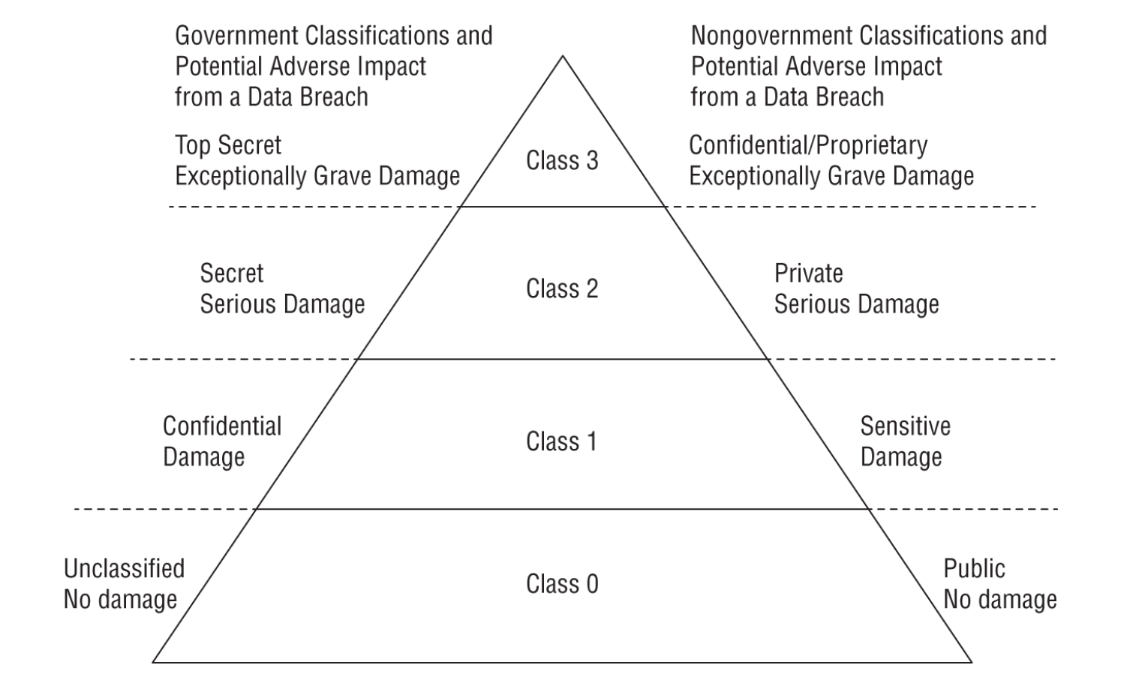
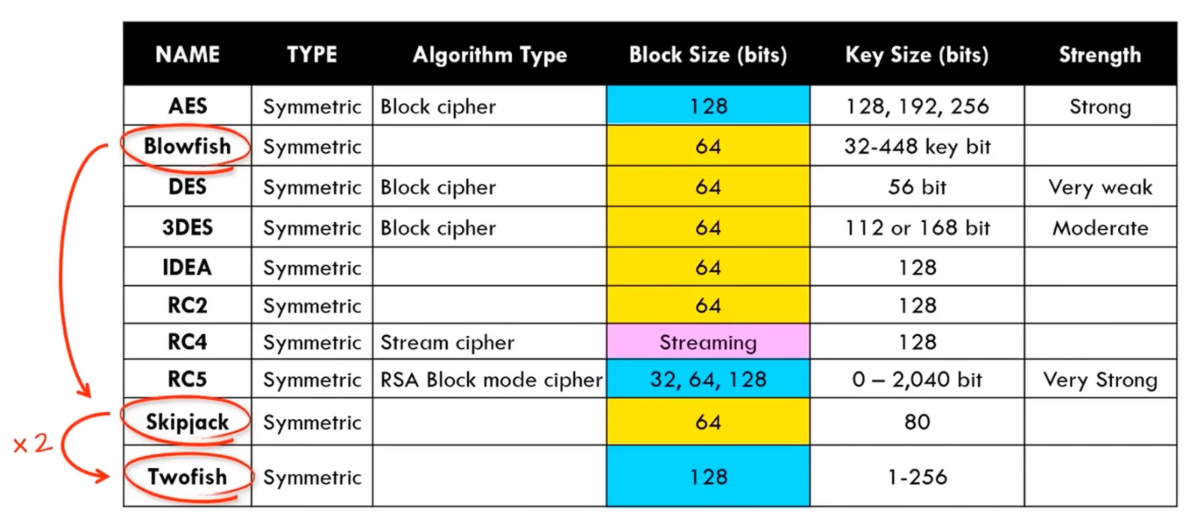
GITBOOK-38: No subject

diff --git a/cissp-study-notes/domain-3-security-architecture-and-engineering.md b/cissp-study-notes/domain-3-security-architecture-and-engineering.md
@@ -4,49 +4,49 @@ icon: lock-keyhole
 
 # Domain 3: Security Architecture and Engineering
 
-Security Design Principles:\
-\- Threat modeling\
-\- Least privilege\
-\- Defense in Depth\
-\- Secure defaults\
-\- Fail securely\
-\- Seperation of duties\
-\- Keep it simple and small\
-\- Zero trust or trust but verify\
-\- Privacy by Design\
-\- Share responsibility\
-\- Secure acces service edge
+## Security Design Principles
 
+* Threat modeling
+* Least privilege
+* Defense in depth&#x20;
+* Fail securely
+* Separation of duties
+* Keep it simple and small
+* Zero trust or trust but verify
+* Privacy by Design
+* Share responsibility
+  * cloud services
+* Secure access service edge
 
+### Principles for Zero Trust
 
-Principles for Zero Trust
-
-Know your architecture (users, devices and services)\
+Know your architecture of users, devices and services\
 Know your identities of users, services and devices\
 Know the health of your users, devices and services\
 Use policies to authorize requests\
 Authenticate everywhere\
 Focus your monitoring\
 Don't trust any network, incl. your own\
-Choose services designed for zero trust
+Choose services designed for zero trust\
+treats user identity as the control plane\
+assumes compromise / breach in verifying every request\
 
 
-
-Principle by design
+### Principle by design
 
 privacy should be embedded into every standard, protocol, and process that touches people
 
 * proactive
 * privacy as the default
-* embed privacy into desgin
-* full fuctionality
+* embed privacy into design
+* full functionality
 * end-to-end security
 * Visiblity and Transparency
 * Respect for User privacy
 
 
 
-Cyber kill chain
+## Cyber kill chain
 
 <figure><img src=".gitbook/assets/Cyber-Kill-chain-Diagram.webp" alt=""><figcaption></figcaption></figure>
 
@@ -54,7 +54,9 @@ Cyber kill chain
 
 Three of the most popular security architectures:
 
-Zachman, Sherwood Applied Business Security Architecture (SABSA), The Open Group Architecture Framework (TOGAF)
+* Zachman
+* Sherwood Applied Business Security Architecture (SABSA)
+* The Open Group Architecture Framework (TOGAF)
 
 
 
@@ -62,7 +64,7 @@ Zachman, Sherwood Applied Business Security Architecture (SABSA), The Open Group
 
 "Rules to be implemented to achieve security"
 
-They are a way to formalize security policy.
+They are a way to <mark style="color:$primary;">formalize</mark> security policy.
 
 typical implemented by enforcing integrity, confidentiality or other controls.
 
@@ -77,9 +79,45 @@ Three properties:
 
 
 
+State machine model
+
+* describe a system that is always secure, no matter what state it is in
+* based on computer science: finite state machine (FSM)
+* state: snapshot of a system at a specific moment in time. All state transistions must be evaluated
+* if each possible state transition results in another secure state, system can be called secure state machine
+
+Information flow model
+
+* focuses on controlling the flow of information
+* based on state machine model
+* Biba and Bell-LaPaDula
+
+
+
+non-interference model
+
+* loosely based on the information flow model
+* concernd how actions of a subject or a higher security level affect the system statet
+* subject a (high) should not affect or interfere with the actions of subject B (low)
+* form of protection against malicious programs such as backdoors and rootkits
+
+
+
+| Model                      | What it is (simple)                                                                                                          | What it enforces                                                                     | Quick example                                                                                                        |
+| -------------------------- | ---------------------------------------------------------------------------------------------------------------------------- | ------------------------------------------------------------------------------------ | -------------------------------------------------------------------------------------------------------------------- |
+| **State Machine Model**    | Treats a system as **states** and **transitions**. If you start secure and only do allowed transitions, you **stay secure**. | Every change must keep the system in a **secure state**.                             | Bell-LaPadula/Biba are built as state-machine models: each operation is checked so it can’t break policy.            |
+| **Information Flow Model** | Focuses on **where data is allowed to flow** (who/what can send or receive).                                                 | **Allow only permitted flows**, block illegal ones to prevent leakage/contamination. | “No read up / no write down” (Bell-LaPadula) and “No read down / no write up” (Biba) control info movement.          |
+| **Non-Interference Model** | Strong form of isolation: **high-level actions must not change anything a low-level user can observe**.                      | Prevents **signals/covert channels** from high → low.                                | In a multi-level system, admin (High) activity can’t cause timing/log/output changes visible to regular users (Low). |
+
+
+
 **lattice-based mode**l is like a ladder, layers going up and down. Requires layers of security.
 
 **rule-based model:** specific rules dictates how security operates
+
+
+
+<figure><img src=".gitbook/assets/image (2).png" alt=""><figcaption></figcaption></figure>
 
 Biba, Star Model, Bell-LaPadula, Clark-Wilson, Brewer-Nash (Chinese Wall Model)
 
@@ -91,22 +129,25 @@ Biba, Star Model, Bell-LaPadula, Clark-Wilson, Brewer-Nash (Chinese Wall Model)
 |                                                                                        | Graham-Denning             |
 |                                                                                        | Harrison-Ruzzo-Ullman      |
 
-Bell-LaPadula
+### Bell-LaPadula
 
 * state machine enforces confidentiality
 * mandatory access control
   * to enforce DoD multilevel security policy (Government!!)
 * simple security property
-  * no read up
+  * simple security property
+    * no read up
+  * start \* security property
+    * no write down
 
-| Aspect                   | Bell-LaPadula                                                                                                                           | Biba                                                                                                                                |
-| ------------------------ | --------------------------------------------------------------------------------------------------------------------------------------- | ----------------------------------------------------------------------------------------------------------------------------------- |
-| _Primary Goal_           | **Confidentiality**—keep secrets from leaking                                                                                           | <p><strong>Integrity</strong>—keep trusted data from being corrupted.<br>prevents unauthorized subjects from making any changes</p> |
-| _Key Rule Mnemonics_     | **No-Read-Up / No-Write-Down**(“You can’t look at material above your clearance, and you can’t send classified data to a lower level.”) | **No-Write-Up / No-Read-Down**(“You can’t contaminate higher-integrity data, and you shouldn’t trust lower-quality data.”)          |
-| _Typical Labels_         | Unclassified → Confidential → Secret → Top Secret                                                                                       | Untrusted → User → Operator → System                                                                                                |
-| _Where You’ll See It_    | Military/Intel MLS networks, SELinux MLS, cross-domain guards                                                                           | Safety-critical systems, financial transaction ledgers, industrial control, medical records                                         |
-| _Ignored CIA Components_ | Integrity & Availability                                                                                                                | Confidentiality & Availability                                                                                                      |
-| Typical Scenario         | A Secret-cleared analyst saves her finished report as **Top Secret**.                                                                   | Operating-system kernel (high integrity) writes log entries to a user-readable “/var/log” file (low integrity).                     |
+| Aspect                   | Bell-LaPadula                                                                                                                                                                | Biba                                                                                                                                                                     |
+| ------------------------ | ---------------------------------------------------------------------------------------------------------------------------------------------------------------------------- | ------------------------------------------------------------------------------------------------------------------------------------------------------------------------ |
+| _Primary Goal_           | <mark style="color:$primary;">**Confidentiality**</mark>—keep secrets from leaking                                                                                           | <p><mark style="color:$primary;"><strong>Integrity</strong></mark>—keep trusted data from being corrupted.<br>prevents unauthorized subjects from making any changes</p> |
+| _Key Rule Mnemonics_     | <mark style="color:$primary;">**No-Read-Up / No-Write-Down**</mark>(“You can’t look at material above your clearance, and you can’t send classified data to a lower level.”) | <mark style="color:$primary;">**No-Write-Up / No-Read-Down**</mark>(“You can’t contaminate higher-integrity data, and you shouldn’t trust lower-quality data.”)          |
+| _Typical Labels_         | Unclassified → Confidential → Secret → Top Secret                                                                                                                            | Untrusted → User → Operator → System                                                                                                                                     |
+| _Where You’ll See It_    | Military/Intel MLS networks, SELinux MLS, cross-domain guards                                                                                                                | Safety-critical systems, financial transaction ledgers, industrial control, medical records                                                                              |
+| _Ignored CIA Components_ | Integrity & Availability                                                                                                                                                     | Confidentiality & Availability                                                                                                                                           |
+| Typical Scenario         | A Secret-cleared analyst saves her finished report as **Top Secret**.                                                                                                        | Operating-system kernel (high integrity) writes log entries to a user-readable “/var/log” file (low integrity).                                                          |
 
 **Lipner** is an implementation (not model) that combines the best features of Bell-LaPadula and Biba
 
@@ -121,7 +162,7 @@ Covert channels
 
 Focus on Integrity / Adds on to Biba model
 
-1. Prevent unauthorized subjects from making anyu changes (=Biba)
+1. Prevent unauthorized subjects from making any changes (=Biba)
 2. Prevent unauthorized subjects from making bad changes
 3. Maintain consistency of the system
 
@@ -130,6 +171,8 @@ Rules of integrity:
 | Well-Formed Transaction                                                                                   | Separation of Duties                                                                  | Access Triple                                                                                                                                        |
 | --------------------------------------------------------------------------------------------------------- | ------------------------------------------------------------------------------------- | ---------------------------------------------------------------------------------------------------------------------------------------------------- |
 | Good, consistent data. Only perform operations in a manner that won't compromise the integrity of ojbects | One person shouldn't be allowed to poerform all tasks related to a critical function. | <p>Subject > Program > Object<br>Subject cannot directly access an object. Database access must go through a program that enforces access rules.</p> |
+
+<figure><img src=".gitbook/assets/image (3).png" alt=""><figcaption></figcaption></figure>
 
 
 
@@ -140,15 +183,9 @@ primary goal: Preventing conflict of interest.
 
 Example: Banking: Retail Investments and Merger & Acquisitions
 
-
-
 Other rule-based models (no details mentioned):\
 \- Graham-Denning Model\
 \- Harrison-Ruzzo-Ullman model
-
-
-
-
 
 
 
@@ -382,10 +419,18 @@ SPML
 
 
 
-Edge computing:
+### Edge computing
 
 * distributed computing approach that can reduce latency, increase bandwidth availability
 * process is done closer to the source of data
+  * locally, far from the cloud
+* IOT
+* process on the device (motion detection camera)
+
+### Fog computing
+
+* places gateway devices in the field to collect and correlate data centrally at the edge
+* iot gateway aggregates data run anomaly and sends summary to cloud
 
 
 
@@ -434,7 +479,7 @@ rubber hose attack: user of duress or torture
   2. Decrypt it with the stolen KRBTGT key, modify the **PAC** (add Domain-Admins SID, change username, etc.).
   3. Re-encrypt and reuse; because there _was_ an earlier AS-REQ/REP, log timelines line up and traditional “ticket appeared from nowhere” rules fail.
 
-Cryptographie
+## Cryptographie
 
 Goals:
 
@@ -448,23 +493,23 @@ Goals:
 
 
 
-Key clustering: two different keys generate same ciphertext for same plaintext.
+**Key clustering**: two different keys generate same ciphertext for same plaintext. Similar to collision in hashes
 
-Work Factor: estimated amount of time or effort required to break a cryptosystem
+**Work Factor**: estimated amount of time or effort required to break a **cryptosystem**
 
-Confusion: If one bit of the key is changed, about half of the bit in the ciphertext should change (key - ciphertext)
+**Confusion:** If one bit of the key is changed, about half of the bit in the ciphertext should change (key - ciphertext)
 
-Diffusion: If one bit of the plaintext is changed, approx half of the bits in ciphertext should change. (plaintext - ciphertext)
+**Diffusion:** (shannon propert). each plaintext bit's influence is spread over many chiphertext bits
 
-Avalanche: determine security and effectiveness of an algo. Looks at the degree of confusion and diffusion the algo provides. Ideal case: Single bit -> at least 50 percent change in cipher text!
+**Avalanche**: determine security and effectiveness of an algo. Looks at the degree of confusion and diffusion the algo provides. Ideal case: Single bit -> at least 50 percent change in cipher text!
 
-Substitution: Replace characters with different characters
+**Substitution:** Replace characters with different characters (Ceasar cipher)
 
-Diffusion: Rearrange order of characters
+**Transposition:** rearrange the letters of a plaintext message
 
 Rail Fence (ZigZag)&#x20;
 
-Block Cipher Modes:
+### Block Cipher Modes
 
 
 
@@ -488,14 +533,14 @@ Null Cipher: Plaintext ist mixed with a large amount of non-ciphertext. For exam
 
 ### Symmetric encryption
 
+<figure><img src=".gitbook/assets/image.png" alt=""><figcaption></figcaption></figure>
+
 Advantages: Fast, Strong\
 Disadvantages: Key distribution, Scalability, no authentication, integrity or nonrepudation.
 
 total keys for n users: n \* (n-1) / 2
 
 RC4 = Stream cipher, RC5 and RC6 = Block ciphers!
-
-
 
 DES: 56 key length, 64 block length\
 2-DES: 2 \* 56 key length\
@@ -523,12 +568,18 @@ AEAD: Authenticated Encryption with Associated Data
 
 AES-GCM and ChaCha2020-Poly1305 when confidentiality + integrtiy is needed in a single pass. No separate MAC required
 
+### Hash algorithms
 
+<figure><img src=".gitbook/assets/image (1).png" alt=""><figcaption></figcaption></figure>
+
+SHA-1 = obsolete; SHA-2 = today’s default; SHA-3 = different design (sponge) + SHAKE options.
 
 ### Asymmetric Crypto
 
-RSA based on factoring (5 x 3 = 15)\
-Elliptic Curve based on discrete logarithms (DH, ECC) 2^3 = 8
+**RSA** based on factoring (5 x 3 = 15)\
+**Elliptic Curve** based on discrete logarithms (DH, ECC) 2^3 = 8\
+**Diffie-Hellman**\
+**El Gamals:** extension of DH key exchange algorithm. Depends on modular arthmetic.&#x20;
 
 Knapsack algo was cracked and considered unsafe
 
@@ -551,9 +602,14 @@ MIC uses hashes (instead of Parity checks, Checksums or CRC)
 Accidentail changes: Parity, CRC, Checksums\
 Intentional changes: keyed hash, digital signatures
 
+DSS: Digital Signature Standard:
 
+* NIST standards FIPS 186-5 defines how to create and verify digital signtures to ensure integrity, authentication and non-repudations
+* approved algos: RSA, ECDSA and edDSA
+* DSA no longer approved
+* SHA-1, SHA-2 and SHA-3 message digest
 
-PKI:
+PKI
 
 RA: Registration Authority (proofs Identity for new Certifcate requests)
 
@@ -598,9 +654,20 @@ Crypto shedding good variant to verify data is removed from the cloud
 
 
 
+### Quantum computing
 
+**Grover algorithm** shows that a quantum computer speeds up these attacks to effectively halve the **symmmetric** key length. 256-bit key becomes a 128-bit **key.**
 
-### Physical security
+**Shor's algortihm** can easily break all of the commonly based-key algo based on both factoring and the discrete logarithm problem
+
+* RSA is vulnerable
+* Elliptic Curve is vulnerable
+
+**Lattice** based crypto offers some resistance!
+
+Lattice based on shortest vector problem and closest vector problem
+
+## Physical security
 
 | Logical security controls | Physical Security |
 | ------------------------- | ----------------- |
@@ -707,4 +774,27 @@ Fire extinguishers
 | **C**                         | **Energized electrical equipmen**t: panels, motors, servers, wiring runs                                    | Gas, CO2, dry chemicals                                        |
 | **D**                         | **Combustible metals**: magnesium, sodium, potassium, titanium, zirconium, lithium-ion battery anodes, etc. | Dry powders                                                    |
 | **K** (U.S.) / **F** (Europe) | Commercial **cooking** oils & fats: deep-fat fryers, salad-oil, lard                                        | Wet chemicals                                                  |
+|                               |                                                                                                             |                                                                |
+
+Etc
+
+(domain 8 material)
+
+SIEM: Security Information Event Manager
+
+* real-time monitoring, traffic analysis & notification
+
+SOAR: Security Orchestration Automation & Response
+
+* alert and response automation with threat-specific playbooks
+
+| Concept                                 | What it is                                                    |
+| --------------------------------------- | ------------------------------------------------------------- |
+| **SOA (Service-Oriented Architecture)** | Build systems as **enterprise services** that many apps share |
+| **Microservices**                       | Build one app as many **small, independent services**         |
+
+CASB: Cloud access security broker
+
+* security policy enforcement solution that may be installed on-prem or in the cloud
+* shadow it prevention
 

diff --git a/cissp-study-notes/domain-2-asset-security.md b/cissp-study-notes/domain-2-asset-security.md
@@ -52,7 +52,7 @@ hierarchy: **Policy → Standards → Procedures → Baselines → Guidelines**
 
 ## Classification Levels
 
-<figure><img src=".gitbook/assets/image.png" alt=""><figcaption></figcaption></figure>
+<figure><img src=".gitbook/assets/image (4).png" alt=""><figcaption></figcaption></figure>
 
 ## Data roles
 
